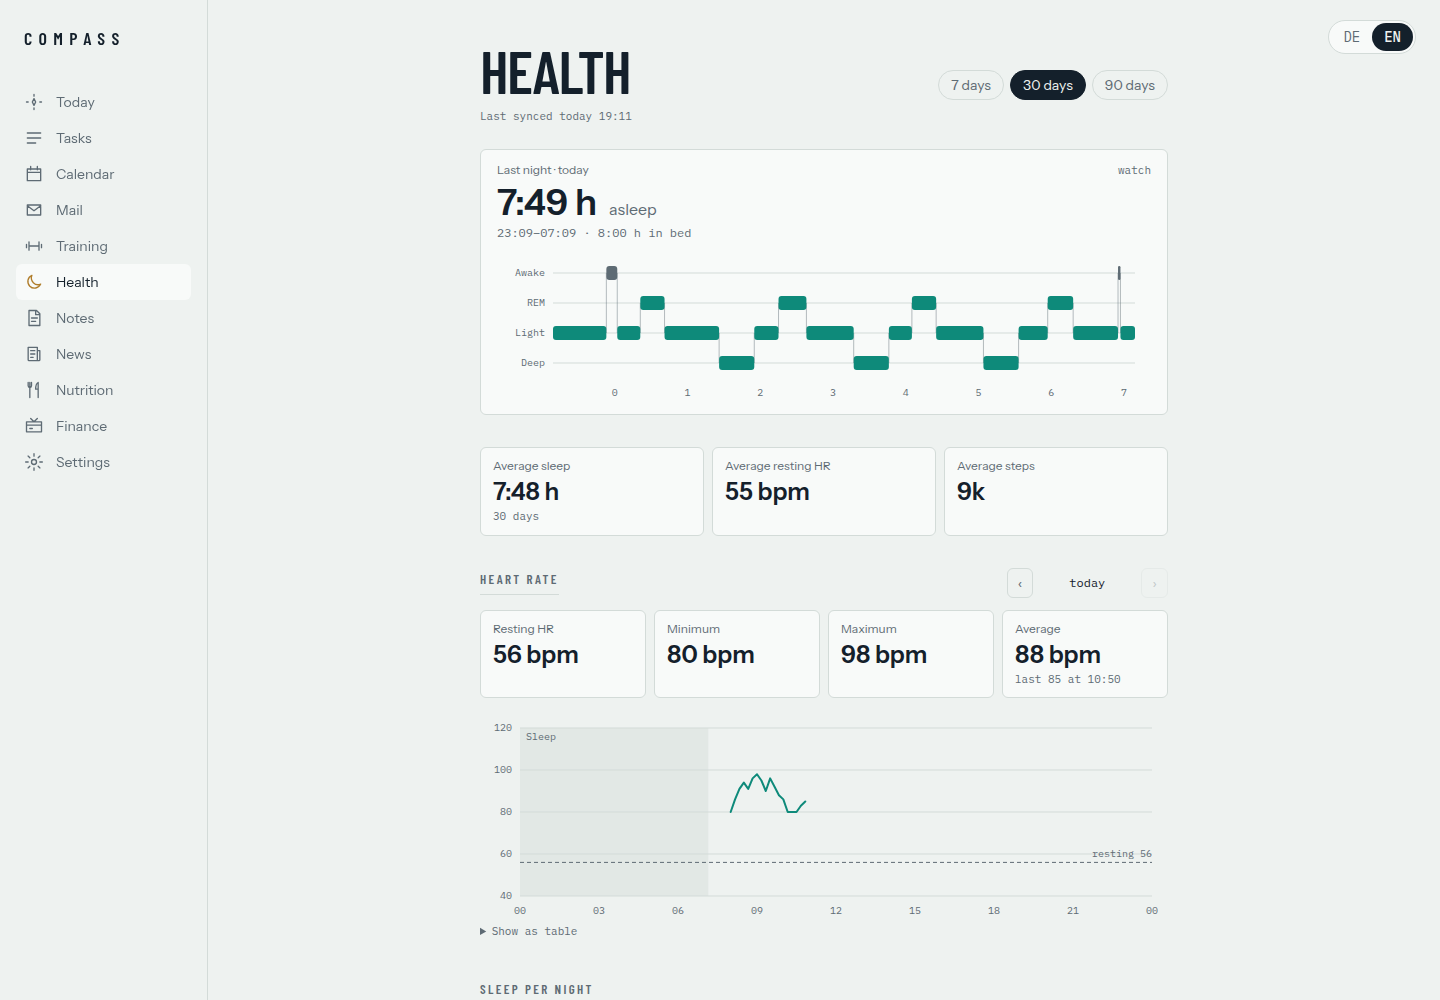
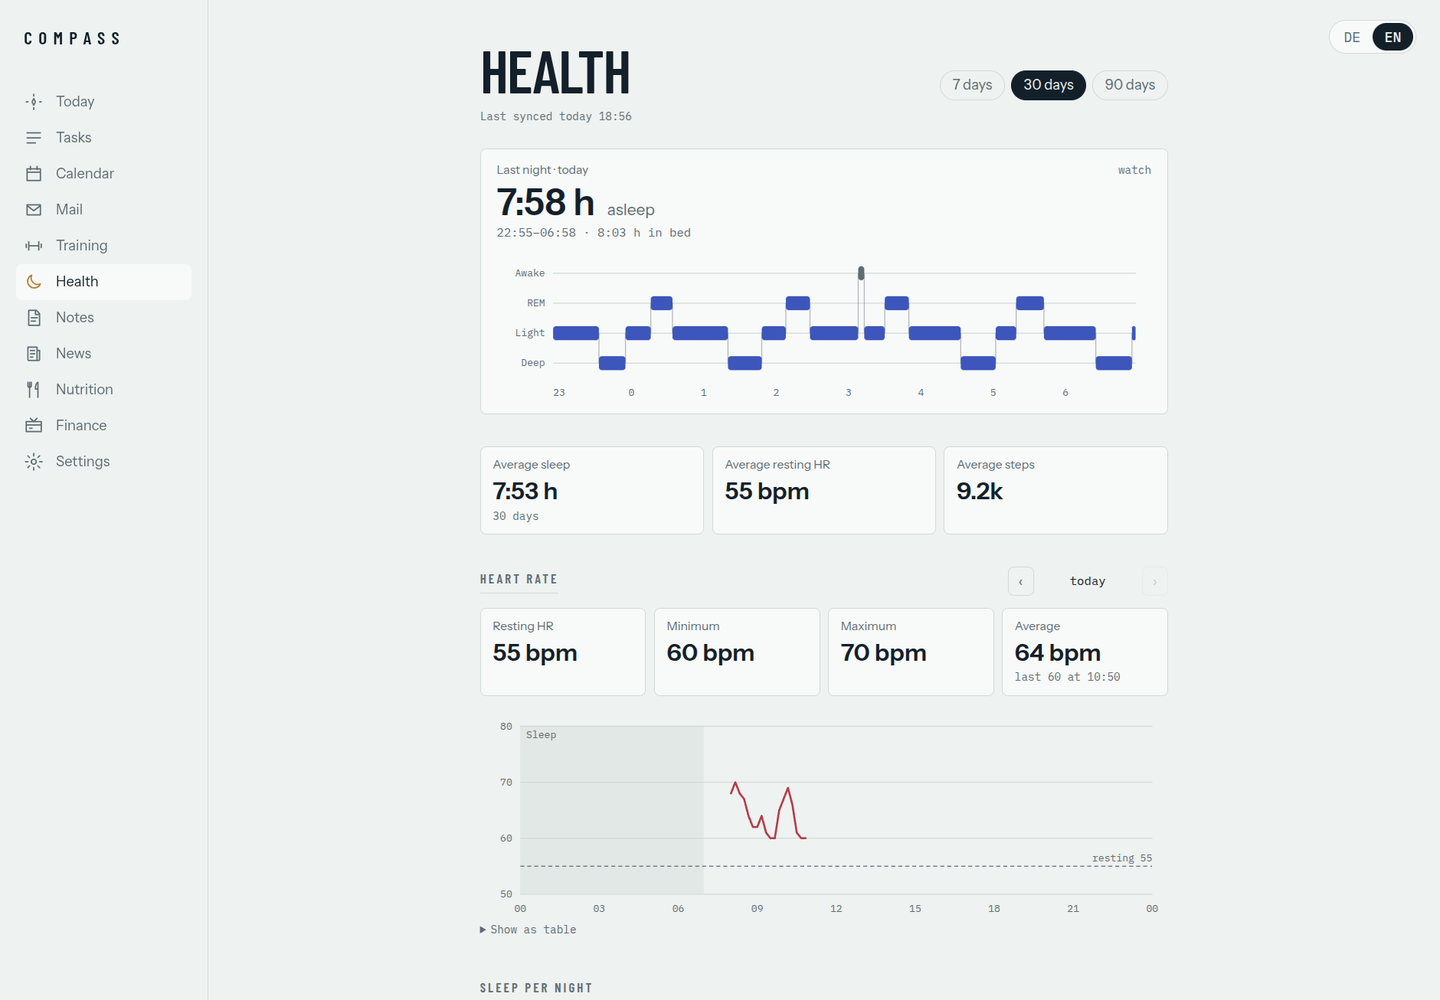
update the today and health screenshots and document the course line, the snapshot window, the browser cache and self-updating dashboards

diff --git a/README.md b/README.md
@@ -21,7 +21,8 @@ The screenshots show made-up data.
   recurrence), list and board view, areas and tags.
 - **Calendar:** read-only ICS feeds (Google, Outlook, university calendars) in a week, month and agenda
   view. Deadlines from a learning platform's calendar become tasks.
-- **Today:** events, due and planned tasks, important mails, the daily brief and live health tiles.
+- **Today:** the day as a course line from waking up to the evening, events, due and planned tasks,
+  important mails, the daily brief and live health tiles.
 - **Notes:** a small knowledge base with tags and full text search; links and text can be shared into it
   from the phone.
 - **Health:** sleep with stages, sleep rhythm, resting heart rate, steps and zone 2 minutes from Health
@@ -150,7 +151,7 @@ dashboard login. Every record is stored as it arrived; derived from it are sleep
 (a night counts for the day of waking up), heart rate samples and daily metrics. When two apps write the
 same steps or sleep, a day takes the source with the larger total instead of adding them up.
 
-The Sleep tab shows last night with its stages, sleep per night, resting heart rate, steps and workouts
+The Health tab shows last night with its stages, sleep per night, resting heart rate, steps and workouts
 outside the training log. Gym Day writes its sessions (without sets) to Health Connect as well;
 Compass matches them with the sessions from the CSV export to fill in the duration in the Training tab.
 A session that is only in Health Connect (no export, e.g. without Gym Day Premium) still shows up there,
@@ -166,7 +167,8 @@ your AI assistant with `set_nutrition_goal`); without it Compass assumes 190.
 
 Nutrition apps such as MyFitnessPal write every meal to Health Connect, so meals arrive with the bridge
 app like sleep does. Compass sums them per day and meal (breakfast, lunch, dinner, snacks). If two apps write nutrition for
-the same day, the one with more calories counts instead of both.
+the same day, the one with more calories counts instead of both. Records with the same content (app,
+time, meal and values) count once: MyFitnessPal sometimes writes a whole day again under new ids.
 
 An export of your nutrition app fills in the past: upload it in the Nutrition tab or share it from the
 phone. The format is recognised by its columns, and importing it again changes nothing. For days that

diff --git a/android/README.md b/android/README.md
@@ -10,6 +10,10 @@ data itself.
   After that, an hourly WorkManager job only sends what changed since the last run, including
   deletions. The token only moves on after Compass accepted a batch; the import is idempotent, so a
   broken-off run just resends a few records.
+- The change feed misses some rewrites (Zepp rewrites a night, MyFitnessPal a day, under new ids). So
+  every sync also sends everything Health Connect has of sleep and exercise for the last 3 days and of
+  nutrition and weight for the last 14 days; what Compass has in that range and is not listed counts
+  as deleted.
 - If the changes token expires (30 days without a sync) or other permissions are granted, the app
   reads the window again. "Read again" in the app does the same by hand.
 
@@ -45,7 +49,7 @@ update over an existing install when the key is the same, so always build on the
 
 The app follows the phone's language (English, German).
 
-The Sleep tab in Compass shows the last sync and its device; the app shows its own last result or error.
+The Health tab in Compass shows the last sync and its device; the app shows its own last result or error.
 
 ## Data contract
 

diff --git a/SECURITY.md b/SECURITY.md
@@ -10,3 +10,5 @@ Compass holds personal data, so when you run it:
 - Keep the dashboard behind a VPN or another access control, see `docs/deploy.md`.
 - Keep `.env` and database backups private. Calendar links carry secret tokens, and so do the values of `.env`.
 - Treat the MCP login like the dashboard login: it gives an AI assistant access to your data.
+- The dashboard keeps its last answers from the API in the browser (localStorage) for up to a day, so
+  it opens without waiting. Use it on your own devices, or clear the site data after using a shared one.

diff --git a/docs/deploy.md b/docs/deploy.md
@@ -470,6 +470,8 @@ sudo systemctl enable --now compass-deploy.timer
 ```
 
 Follow it with `journalctl -u compass-deploy -f`. The deployed commit is in `/opt/compass/.deployed`.
+Open dashboards pick up a new version by themselves: the service worker installs it and the page reloads
+once. The installed PWA also checks every hour and whenever it comes back to the foreground.
 To pause automatic updates, run `sudo systemctl stop compass-deploy.timer`.
 
 To roll back, stop the timer and start the images of an older commit (CI tags every image with its
